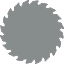
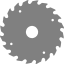
2 Player Joystick Controls
Can now control both players with joysticks.

diff --git a/gamelib/player.py b/gamelib/player.py
@@ -16,19 +16,37 @@ class Player(PhysicsBody):
         self.id = id
         self.invulnerable = False
         self.label = PhysicsBody(0, 0, 17, 12, PLAYER.p1_label)
-        self.glow = PhysicsBody(0, 0, 64, 64, ASSET.player1_glow)
+        self.glow = PhysicsBody(0, 0, 48, 48, ASSET.player1_glow)
         self.original_image = self.image
+        
+        self.sort_players()
         self.update_label()
-        self.update_effects()
+        #self.update_effects()
+        self.original_glow_image = self.glow.image
 
-    def draw(self, screen):
-        screen.blit(self.image, self.rect)
-        screen.blit(self.label.image, self.label.rect)
-        screen.blit(self.glow, self.glow.rect)
+        self.controller1 = self.get_controller(1)
+        self.controller2 = self.get_controller(2)
+
+    def get_controller(self, player):
+        number_of_joysticks = pygame.joystick.get_count()
+        if number_of_joysticks == 1:
+            joystick = pygame.joystick.Joystick(0)
+            joystick.init()
+            return joystick
+        elif number_of_joysticks > 1:
+            if player == 1:
+                joystick = pygame.joystick.Joystick(0)
+                joystick.init()
+                return joystick                
+            if player == 2:
+                joystick = pygame.joystick.Joystick(1)
+                joystick.init()
+                return joystick
+        return None
+
+
 
     def handle_events(self, event):
-        if event.type == JOYAXISMOTION:
-            print "Detected joystick"
         if self.id == PLAYER.one:
             if event.type == KEYDOWN:
                 if (event.key == K_o or event.key == K_SPACE) and self.grounded:
@@ -39,6 +57,15 @@ class Player(PhysicsBody):
                 if event.key == K_i:
                     if self.has_data:
                         self.shoot_data = True
+
+            if event.type == JOYBUTTONDOWN:
+                if (self.controller1.get_button(1) == 1) and self.grounded:
+                    self.vspeed = self.jumpHeight
+                if (self.controller1.get_button(2) == 1):
+                    if self.has_data:
+                        self.shoot_data = True
+
+
         if self.id == PLAYER.two:
             if event.type == KEYDOWN:
                 if event.key == K_UP and self.grounded:
@@ -49,6 +76,13 @@ class Player(PhysicsBody):
                 if event.key == K_m:
                     if self.has_data:
                         self.shoot_data = True
+
+            if event.type == JOYBUTTONDOWN:
+                if (self.controller2.get_button(1) == 1) and self.grounded:
+                    self.vspeed = self.jumpHeight
+                if (self.controller2.get_button(2) == 1):
+                    if self.has_data:
+                        self.shoot_data = True                        
     
     def animate_size(self):
         if self.has_data:
@@ -61,6 +95,14 @@ class Player(PhysicsBody):
         self.label.rect.bottom = self.rect.top - 5
         
     def update_effects(self):
+        #self.glow.image = pygame.transform.smoothscale(self.glow.image, (48, 48))
+        self.glow.rect.center = self.rect.center
+        
+    def sort_players(self):
+        if self.id == PLAYER.one:
+            self.glow = PhysicsBody(0, 0, 48, 48, ASSET.player1_glow)
+        elif self.id == PLAYER.two:
+            self.glow = PhysicsBody(0, 0, 48, 48, ASSET.player2_glow)
         self.glow.rect.center = self.rect.center
 
     def update(self):
@@ -69,25 +111,30 @@ class Player(PhysicsBody):
         self.grounded = False
         key = pygame.key.get_pressed()
         if self.id == PLAYER.one:
-            if key[K_a]:
+            if (key[K_a] or (self.controller1 is not None and self.controller1.get_hat(0)[0] == -1)):
                 self.direction = DIRECTION.left
                 if self.rect.x <= 0: # Avoid disappearing on left side of screen
                     self.hspeed = 0
                 else:
                     self.hspeed = -self.speed
-            elif key[K_d]:
+            elif (key[K_d] or (self.controller1 is not None and self.controller1.get_hat(0)[0] == 1)): 
                 self.direction = DIRECTION.right
                 self.hspeed = self.speed
+            if (self.controller1 is not None and self.controller1.get_hat(0)[0] == 0):
+                self.hspeed = 0
+
         elif self.id == PLAYER.two:
-            if key[K_LEFT]:
+            if (key[K_LEFT] or (self.controller2 is not None and self.controller2.get_hat(0)[0] == -1)):
                 self.direction = DIRECTION.left
                 if self.rect.x <= 0: # Avoid disappearing on left side of screen
                     self.hspeed = 0
                 else:
                     self.hspeed = -self.speed
-            elif key[K_RIGHT]:
+            elif (key[K_RIGHT] or (self.controller2 is not None and self.controller2.get_hat(0)[0] == 1)):
                 self.direction = DIRECTION.right
                 self.hspeed = self.speed
+            if (self.controller2 is not None and self.controller2.get_hat(0)[0] == 0):
+                self.hspeed = 0
 
         self.vspeed += self.gravity
         self.move(self.hspeed, self.vspeed)
@@ -102,7 +149,7 @@ class Player(PhysicsBody):
                 sprite.kill()
 
     def get_data_pos(self):
-        hspeed = 5
+        hspeed = 6
         vspeed = -12
         if self.direction == DIRECTION.left:
             hspeed = -6
@@ -118,6 +165,10 @@ class Player(PhysicsBody):
         self.rect.centerx = centerx
         self.rect.bottom = bottom
         self.jumpHeight = PLAYER.jump + 2
+        
+        self.glow.image = pygame.transform.smoothscale(self.original_glow_image, (64, 64))
+        self.glow.rect = self.glow.image.get_rect()
+        self.glow.rect.center = self.rect.center
 
     def shrink(self):
         centerx = self.rect.centerx
@@ -127,4 +178,8 @@ class Player(PhysicsBody):
         self.rect.centerx = centerx
         self.rect.bottom = bottom
         self.jumpHeight = PLAYER.jump
+        
+        self.glow.image = pygame.transform.smoothscale(self.original_glow_image, (48, 48))
+        self.glow.rect = self.glow.image.get_rect()
+        self.glow.rect.center = self.rect.center
 

diff --git a/gamelib/uifactory.py b/gamelib/uifactory.py
@@ -2,6 +2,7 @@ import pygame, os, sys
 from pygame.locals import *
 from constants import COLOR, MENU, SCREEN, STATE, ASSET, GAME
 from physicsbody import PhysicsBody
+from controlsfactory import Controller
 import pygame.mixer as mixer
 
 
@@ -17,10 +18,10 @@ class Menu(object):
         self.font = pygame.font.Font(os.path.join("assets", "fonts", "tinyfont.ttf"), 24)
         self.font.set_bold(True)
         self.color = color
-        self.title = self.title_font.render("CleanerBot", True, COLOR.white)
+        self.title = self.title_font.render("CleanerBot", True, COLOR.half_black)
         self.text_play = self.font.render("Play", True, self.color)
-        self.text_controls = self.font.render("Controls", True, COLOR.white)
-        self.text_exit = self.font.render("Exit", True, COLOR.white)
+        self.text_controls = self.font.render("Controls", True, COLOR.half_black)
+        self.text_exit = self.font.render("Exit", True, COLOR.half_black)
         self.bg = MENU.menuScreen
         self.button = PhysicsBody(0, 250, MENU.buttonWidth, MENU.buttonHeight, MENU.button)
         self.button.rect.centerx = SCREEN.width/2
@@ -32,20 +33,50 @@ class Menu(object):
         self.nav_sound.set_volume(0.5)
         self.select_sound = mixer.Sound(os.path.join("assets", "sfx", "comical pop and swirl.wav"))
 
+        self.controller = self.get_controller()
+
+
+    def get_controller(self):
+        number_of_joysticks = pygame.joystick.get_count()
+        if number_of_joysticks > 0:
+            joystick = pygame.joystick.Joystick(0)
+            joystick.init()
+            return joystick
+        return None
 
 
     def handle_events(self, event):
         self.state = STATE.menu
+    
         if event.type == KEYDOWN:
-            if (event.key == K_DOWN or event.key == K_s) and self.button_pos < 2:
+            if (event.key == K_s) and self.button_pos < 2:
                 self.button.rect.y += self.button.rect.height
                 self.button_pos += 1
                 self.nav_sound.play()
-            elif (event.key == K_UP or event.key == K_w) and self.button_pos > 0:
+            elif (event.key == K_w) and self.button_pos > 0:
                 self.button.rect.y -= self.button.rect.height
                 self.button_pos -= 1
                 self.nav_sound.play()
-            elif event.key == K_RETURN:
+            elif event.key == K_e or event.key == K_RETURN:
+                self.select_sound.play()
+                if self.button_pos == 0:
+                    self.state = STATE.game
+                elif self.button_pos == 2:
+                    pygame.quit()
+                    sys.exit()
+
+        elif event.type == JOYHATMOTION:            
+            if (self.controller.get_hat(0)[1] == -1) and self.button_pos < 2:
+                self.button.rect.y += self.button.rect.height
+                self.button_pos += 1
+                self.nav_sound.play()
+            elif (self.controller.get_hat(0)[1] == 1) and self.button_pos > 0:
+                self.button.rect.y -= self.button.rect.height
+                self.button_pos -= 1
+                self.nav_sound.play()
+
+        elif event.type == JOYBUTTONDOWN:
+            if self.controller.get_button(2): 
                 self.select_sound.play()
                 if self.button_pos == 0:
                     self.state = STATE.game
@@ -71,9 +102,9 @@ class Menu(object):
         self.exit_rect.centery = self.button.rect.centery + self.button.rect.height * 2
 
     def update(self):
-        self.text_play = self.font.render("Play", True, COLOR.white)
-        self.text_controls = self.font.render("Controls", True, COLOR.white)
-        self.text_exit = self.font.render("Exit", True, COLOR.white)
+        self.text_play = self.font.render("Play", True, COLOR.half_black)
+        self.text_controls = self.font.render("Controls", True, COLOR.half_black)
+        self.text_exit = self.font.render("Exit", True, COLOR.half_black)
         
         if self.play_rect.colliderect(self.button.rect):
             self.text_play = self.font.render("Play", True, COLOR.deep_yellow)

diff --git a/gamelib/levelfactory.py b/gamelib/levelfactory.py
@@ -139,8 +139,10 @@ class Level(object):
         self.player2.collision_group.add(self.portals_group)
         self.display_group.add(self.player1)
         self.display_group.add(self.player1.label)
+        self.display_group.add(self.player1.glow)
         self.display_group.add(self.player2)
         self.display_group.add(self.player2.label)
+        self.display_group.add(self.player2.glow)
 
     def update(self):
         now = pygame.time.get_ticks()/1000.0
@@ -207,7 +209,7 @@ class Level(object):
             self.display_group.add(self.light_particles)
 
     def spawn_data(self):
-        datafragment = DataFragment(self.fragmentSpawnPos[0], self.fragmentSpawnPos[1], self.fragmentWidth, self.fragmentHeight, ASSET.dataFragmentFrames)
+        datafragment = DataFragment(self.fragmentSpawnPos[0], self.fragmentSpawnPos[1], self.fragmentWidth, self.fragmentHeight, ASSET.dataFragment)
         datafragment.collision_group = self.player1.collision_group.copy()
         datafragment.collision_group = self.player2.collision_group.copy()
         self.player1.movingforce_group.add(datafragment)
@@ -222,7 +224,7 @@ class Level(object):
 
 
     def shoot_data(self, x, y, hspeed, vspeed):
-        datafragment = DataFragment(x, y, self.fragmentWidth, self.fragmentHeight, ASSET.dataFragmentFrames)
+        datafragment = DataFragment(x, y, self.fragmentWidth, self.fragmentHeight, ASSET.dataFragment)
         datafragment.collision_group = self.player1.collision_group.copy()
         datafragment.collision_group = self.player2.collision_group.copy()
         self.player1.movingforce_group.add(datafragment)

diff --git a/gamelib/constants.py b/gamelib/constants.py
@@ -37,6 +37,7 @@ class COLOR(object):
     white = (255, 255, 255)
     black = (0, 0, 0)
     gray = (31, 31, 31)
+    half_black = (128, 128, 128)
     green = (0, 196, 0)
     blue = (0, 109, 135)
     deep_rose = (204, 51, 153)
@@ -85,16 +86,14 @@ class ASSET(object):
     playerSheet = load_image("player1.png")
     playerMap = os.path.join("assets", "images", "playermap.txt")
     #player = ObjectAsset(playerSheet, playerMap)
-    player1 = load_image("player1_glow.png")
+    player1 = load_image("player1.png")
     player2 = load_image("player2.png")
     player1_glow = load_image("player1_glow.png")
     player2_glow = load_image("player2_glow.png")
 
     platform = load_image("platform.png")
 
-    dataFragmentSheet = load_image("datafragmentsprite.png")
-    dataFragmentMap = os.path.join("assets", "images", "datafragmentmap.txt")
-    dataFragmentFrames = ObjectAsset(dataFragmentSheet, dataFragmentMap)
+    dataFragment = load_image("datafragment.png")
 
     light_particle = load_image("particle.png")
 
@@ -103,9 +102,10 @@ class ASSET(object):
     portal = load_image("portal.png")
     portal_base = load_image("portal_base.png")
 
-    sawSheet = load_image("sawspritesheet.png")
-    sawMap = os.path.join("assets", "images", "sawspritesheet.txt")
-    sawFrames = ObjectAsset(sawSheet, sawMap)
+    saw1 = load_image("saw_spin1.png")
+    saw2 = load_image("saw_spin2.png")
+    saw3 = load_image("saw_spin3.png")
+    sawFrames = [saw1, saw2, saw3]
 
     score_bg = load_image("score_bg.png")
     score_bg = pygame.transform.smoothscale(score_bg, (SCREEN.width, 54))

diff --git a/gamelib/datafragment.py b/gamelib/datafragment.py
@@ -1,12 +1,11 @@
 from physicsbody import PhysicsBody
-from constants import GAME
+from constants import GAME, COLOR
 import pygame
 
 class DataFragment(PhysicsBody):
-    def __init__(self, x, y, width, height, animationFrames):
-        self.animationFrames = animationFrames
-        image = animationFrames.get_walk_frames()[0]
+    def __init__(self, x, y, width, height, image):
         PhysicsBody.__init__(self, x, y, width, height, image)
+        self.image.set_colorkey(COLOR.black)
         self.frameNumber = 0
         self.speed = 3
         self.timeout = 0
@@ -34,12 +33,7 @@ class DataFragment(PhysicsBody):
             self.givePoint = True
 
     def animate_walk(self):
-        self.image = self.animationFrames.get_walk_frames()[self.frameNumber]
-        x = self.rect.x
-        y = self.rect.y
-        self.rect = self.image.get_rect()
-        self.rect.x = x
-        self.rect.y = y        
+        pass   
 
     def animate_jump(self):
         self.image = pygame.transform.smoothscale(self.image, (self.rect.width/2, self.rect.height))

diff --git a/gamelib/saw.py b/gamelib/saw.py
@@ -5,8 +5,8 @@ from constants import GAME
 
 class Saw(PhysicsBody):
     def __init__(self, x, y, width, height, frames):
-        self.frames = frames.get_spin_frames()
-        image = frames.get_spin_frames()[0]
+        self.frames = frames
+        image = frames[0]
         PhysicsBody.__init__(self, x, y, width, height, image)
         self.bounds = pygame.sprite.Group()
         self.changeDirection = False

diff --git a/gamelib/logicfactory.py b/gamelib/logicfactory.py
@@ -155,8 +155,7 @@ class GameEngine(object):
             self.totalscore = self.stage.level.p1_data
 
     def draw(self):
-        self.screen.fill(COLOR.white)
-        self.screen.fill(self.screen_color)        
+        self.screen.fill(COLOR.white) 
 
         if self.state == STATE.game:
             self.screen.blit(SCREEN.bg, (0, 0))

diff --git a/gamelib/assets.py b/gamelib/assets.py
@@ -18,7 +18,7 @@ class Asset(object):
     def get_image(self, x, y, width, height):
         image = pygame.Surface((width, height))
         image.blit(self.spriteSheet, (0, 0), (x, y, width, height))
-        image.set_colorkey((0, 0, 0))
+        #image.set_colorkey((0, 0, 0))
 
         return image
 
